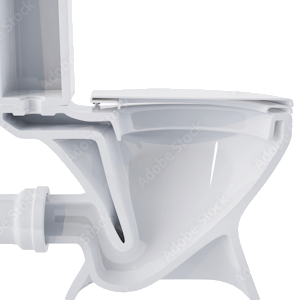
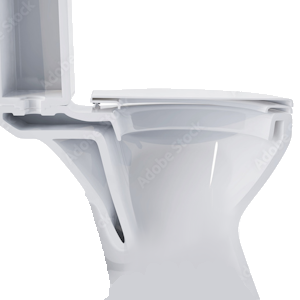
stuff n thangss

Changed region(s): [[0.0, 0.6, 0.84, 1.0], [0.66, 0.78, 0.75, 0.84]]

diff --git a/source/sbs/config.cpp b/source/sbs/config.cpp
@@ -14,6 +14,7 @@ static bool loadOxy(Config &out, const json::Object &root);
 static bool loadStore(Config &out, const json::Object &root);
 static bool loadToilet(Config &out, const json::Object &root);
 static bool loadBrick(Config &out, const json::Object &root);
+static bool loadWater(Config &out, const json::Object &root);
 
 bool Config::load(data::RW &file) {
   auto fileSize = file.size();
@@ -72,6 +73,10 @@ bool Config::load(data::RW &file) {
     return false;
   }
 
+  if(!loadWater(*this, root)) {
+    return false;
+  }
+
   console::note("Loaded config:");
   console::print("  Lube:");
   console::print("    Base: {}", lube.base);
@@ -91,6 +96,13 @@ bool Config::load(data::RW &file) {
   console::print("    End Y: {}", brick.endY);
   console::print("    Fall Speed: {}", brick.fallSpeed);
   console::print("    Size: {}", brick.size);
+  console::print("  Water:");
+  console::print("    Min X: {}", water.minX);
+  console::print("    Max X: {}", water.maxX);
+  console::print("    Min Y: {}", water.minY);
+  console::print("    Max Y: {}", water.maxY);
+  console::print("    Width: {}", water.width);
+  console::print("    Height: {}", water.height);
 
   return true;
 }
@@ -565,6 +577,175 @@ bool loadBrick(Config &out, const json::Object &root) {
     return false;
   }
   out.brick.size = static_cast<f32>(sizeV->number());
+
+  return true;
+}
+
+bool loadWater(Config &out, const json::Object &root) {
+  const auto *waterV = root.get("water");
+  if(waterV == nullptr) {
+    dialog::error("Config",
+      "Configuration file is invalid.\n"
+      "No `water` key.");
+    return false;
+  }
+  if(!waterV->isObject()) {
+    dialog::error("Config",
+      "Configuration file is invalid.\n"
+      "`water` is not a object.");
+    return false;
+  }
+  const auto &waterObject = waterV->object();
+
+  const auto *minXV = waterObject.get("minX");
+  if(minXV == nullptr) {
+    dialog::error("Config",
+      "Configuration file is invalid.\n"
+      "No `minX` in key in `water` object.");
+    return false;
+  }
+  if(!minXV->isNumber()) {
+    dialog::error("Config",
+      "Configuration file is invalid.\n"
+      "`minX` in `water` object is not a number.");
+    return false;
+  }
+  out.water.minX = static_cast<f32>(minXV->number());
+
+  const auto *maxXV = waterObject.get("maxX");
+  if(maxXV == nullptr) {
+    dialog::error("Config",
+      "Configuration file is invalid.\n"
+      "No `maxX` in key in `water` object.");
+    return false;
+  }
+  if(!maxXV->isNumber()) {
+    dialog::error("Config",
+      "Configuration file is invalid.\n"
+      "`maxX` in `water` object is not a number.");
+    return false;
+  }
+  out.water.maxX = static_cast<f32>(maxXV->number());
+
+  const auto *minYV = waterObject.get("minY");
+  if(minYV == nullptr) {
+    dialog::error("Config",
+      "Configuration file is invalid.\n"
+      "No `minY` in key in `water` object.");
+    return false;
+  }
+  if(!minYV->isNumber()) {
+    dialog::error("Config",
+      "Configuration file is invalid.\n"
+      "`minY` in `water` object is not a number.");
+    return false;
+  }
+  out.water.minY = static_cast<f32>(minYV->number());
+
+  const auto *maxYV = waterObject.get("maxY");
+  if(maxYV == nullptr) {
+    dialog::error("Config",
+      "Configuration file is invalid.\n"
+      "No `maxY` in key in `water` object.");
+    return false;
+  }
+  if(!maxYV->isNumber()) {
+    dialog::error("Config",
+      "Configuration file is invalid.\n"
+      "`maxY` in `water` object is not a number.");
+    return false;
+  }
+  out.water.maxY = static_cast<f32>(maxYV->number());
+
+  const auto *widthV = waterObject.get("width");
+  if(widthV == nullptr) {
+    dialog::error("Config",
+      "Configuration file is invalid.\n"
+      "No `width` in key in `water` object.");
+    return false;
+  }
+  if(!widthV->isNumber()) {
+    dialog::error("Config",
+      "Configuration file is invalid.\n"
+      "`width` in `water` object is not a number.");
+    return false;
+  }
+  out.water.width = static_cast<f32>(widthV->number());
+
+  const auto *heightV = waterObject.get("height");
+  if(heightV == nullptr) {
+    dialog::error("Config",
+      "Configuration file is invalid.\n"
+      "No `height` in key in `water` object.");
+    return false;
+  }
+  if(!heightV->isNumber()) {
+    dialog::error("Config",
+      "Configuration file is invalid.\n"
+      "`height` in `water` object is not a number.");
+    return false;
+  }
+  out.water.height = static_cast<f32>(heightV->number());
+
+  const auto *scissorXV = waterObject.get("scissorX");
+  if(scissorXV == nullptr) {
+    dialog::error("Config",
+      "Configuration file is invalid.\n"
+      "No `scissorX` in key in `water` object.");
+    return false;
+  }
+  if(!scissorXV->isNumber()) {
+    dialog::error("Config",
+      "Configuration file is invalid.\n"
+      "`scissorX` in `water` object is not a number.");
+    return false;
+  }
+  out.water.scissorX = static_cast<f32>(scissorXV->number());
+
+  const auto *scissorYV = waterObject.get("scissorY");
+  if(scissorYV == nullptr) {
+    dialog::error("Config",
+      "Configuration file is invalid.\n"
+      "No `scissorY` in key in `water` object.");
+    return false;
+  }
+  if(!scissorYV->isNumber()) {
+    dialog::error("Config",
+      "Configuration file is invalid.\n"
+      "`scissorY` in `water` object is not a number.");
+    return false;
+  }
+  out.water.scissorY = static_cast<f32>(scissorYV->number());
+
+  const auto *scissorWV = waterObject.get("scissorW");
+  if(scissorWV == nullptr) {
+    dialog::error("Config",
+      "Configuration file is invalid.\n"
+      "No `scissorW` in key in `water` object.");
+    return false;
+  }
+  if(!scissorWV->isNumber()) {
+    dialog::error("Config",
+      "Configuration file is invalid.\n"
+      "`scissorW` in `water` object is not a number.");
+    return false;
+  }
+  out.water.scissorW = static_cast<f32>(scissorWV->number());
+
+  const auto *scissorHV = waterObject.get("scissorH");
+  if(scissorHV == nullptr) {
+    dialog::error("Config",
+      "Configuration file is invalid.\n"
+      "No `scissorH` in key in `water` object.");
+    return false;
+  }
+  if(!scissorHV->isNumber()) {
+    dialog::error("Config",
+      "Configuration file is invalid.\n"
+      "`scissorH` in `water` object is not a number.");
+    return false;
+  }
+  out.water.scissorH = static_cast<f32>(scissorHV->number());
 
   return true;
 }

diff --git a/source/sbs/ShitState.cpp b/source/sbs/ShitState.cpp
@@ -132,6 +132,7 @@ private:
     cBrickFallEndY = 1.0f,
     cBrickZ = 0.55f,
     cToiletZ = 0.551f,
+    cToiletFZ = 0.539f,
     cTextH = 0.05f,
     cTextX = 0.5f,
     cTextY = 0.075f,
@@ -252,7 +253,8 @@ private:
     resetSave();
   }};
 
-  f32 mWaterY = cWaterMinY;
+  f32 mWaterX = 0.0f;
+  f32 mWaterY = 0.0f;
 
   Sound mSplash;
   Sound mBuy;
@@ -260,7 +262,7 @@ private:
   Sound mPop;
   Sound mBreath;
 
-  render::gl::Texture mToiletTexture;
+  render::gl::Texture mToiletTexture, mToiletFTexture;
 
 public:
   bool preload() override {
@@ -268,7 +270,7 @@ public:
       .load({"sbs.bndl"})
       .nqTexture("bars.png", mBarsTexture)
       .nqTexture("brick.png", mBrickTexture)
-      .nqFont("inter.cfn", mFont)
+      .nqFont("GrapeSoda.cfn", mFont)
       .nqTexture("water.png", mWaterTexture)
       .nqTexture("bg.png", mBgTexture)
       .nqCustom("cfg.json", mConfig)
@@ -279,7 +281,8 @@ public:
       .nqCustom("broke.ogg", mBrokeAssMfGetAJob)
       .nqCustom("pop.ogg", mPop)
       .nqCustom("breath.ogg", mBreath)
-      .nqTexture("toilet.png", mToiletTexture);
+      .nqTexture("toilet.png", mToiletTexture)
+      .nqTexture("toiletF.png", mToiletFTexture);
     mStore.nqLoad("progress", mSave);
     return true;
   }
@@ -334,7 +337,8 @@ public:
     static bool sSplash = true;
 
     mTimer += delta;
-    mWaterY = cWaterMinY + (sinf(mTimer) + 1) * (cWaterMaxY - cWaterMinY); 
+    mWaterX = mConfig.water.minX - (0.5f*sinf(1+1.2*mTimer) + 1) * (mConfig.water.maxX - mConfig.water.minX); 
+    mWaterY = mConfig.water.minY + (0.5f*sinf(mTimer) + 1) * (mConfig.water.maxY - mConfig.water.minY); 
 
     if(mTimer < cFadeInTime) {
       return true;
@@ -448,11 +452,22 @@ public:
       {mConfig.toilet.size, mConfig.toilet.size},
       mToiletTexture);
 
+    render::setScissorEnabled();
+    render::scissor(
+      {mConfig.water.scissorX, mConfig.water.scissorY},
+      {mConfig.water.scissorW, mConfig.water.scissorH});
     render::color({1, 1, 1, 0.5f});
     render::rect(
-      {cWaterX, mWaterY, cWaterZ},
-      {cWaterW, cWaterH},
+      {mWaterX, mWaterY, cWaterZ},
+      {mConfig.water.width, mConfig.water.height},
       mWaterTexture);
+    render::setScissorEnabled(false);
+
+    render::color();
+    render::rect(
+      {mConfig.toilet.xPos, mConfig.toilet.yPos, cToiletFZ},
+      {mConfig.toilet.size, mConfig.toilet.size},
+      mToiletFTexture);
 
     render::color();
     auto measure = mFont.measure(mScoreString, cTextH);

diff --git a/source/sbs/config.hpp b/source/sbs/config.hpp
@@ -57,6 +57,18 @@ struct Config {
     f32 fallSpeed;
     f32 size;
   } brick;
+  struct Water {
+    f32 minX;
+    f32 maxX;
+    f32 minY;
+    f32 maxY;
+    f32 width;
+    f32 height;
+    f32 scissorX;
+    f32 scissorY;
+    f32 scissorW;
+    f32 scissorH;
+  } water;
   nwge::Array<StoreItem> store;
 
   bool load(nwge::data::RW &file);

diff --git a/source/sbs/MenuState.cpp b/source/sbs/MenuState.cpp
@@ -336,7 +336,7 @@ public:
       .load({"sbs.bndl"})
       .nqTexture("logo2.png", mLogo)
       .nqTexture("brick.png", mBrickTexture)
-      .nqFont("inter.cfn", mFont)
+      .nqFont("GrapeSoda.cfn", mFont)
       .nqCustom("reviews.json", mReviewManager)
       .nqTexture("vignette.png", mVignetteTexture);
     return true;
